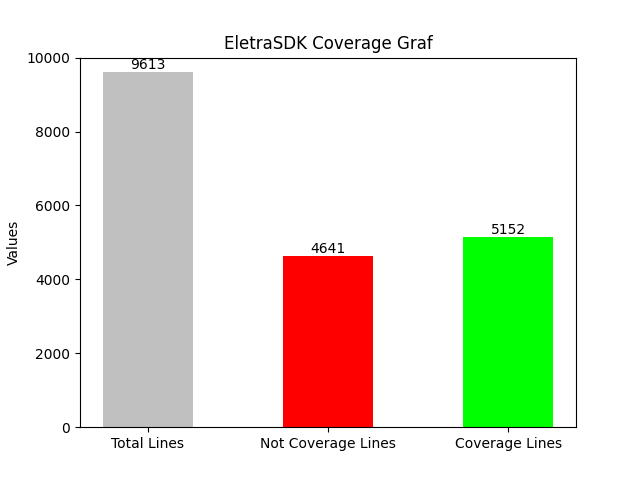
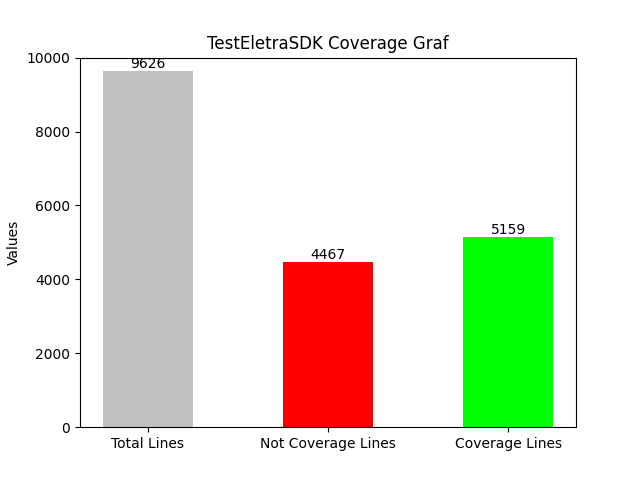
updated

Changed region(s): [[0.3125, 0.0625, 0.7188, 0.125], [0.4375, 0.5, 0.5938, 0.5625], [0.1875, 0.125, 0.2812, 0.1562]]

diff --git a/README.md b/README.md
@@ -3,6 +3,6 @@
 ### O objetivo desse relatório é informar sobre as coberturas de teste do EletraSDK. A cobertura é retirada pelo Software OpenCppCoverage. Como não divisão nesta lib todos os testes estão centralizados em um único executável fazendo assim com que haja uma cobertura geral.
 
 ### EletraSDK
-Nas implementações há 9613 linhas nas quais 5152 linhas estão cobertas por testes, isso corresponde a 53% de linhas cobertas com testes, conforme o grafico abaixo:
+Nas implementações há 9626 linhas nas quais 5159 linhas estão cobertas por testes, isso corresponde a 53% de linhas cobertas com testes, conforme o grafico abaixo:
 
 ![Gráfico das cobeturas de teste do EletraSDK](https://github.com/RaulSouza27/CoverageTestsEletraSDK/blob/main/Images/EletraSDK.png)
